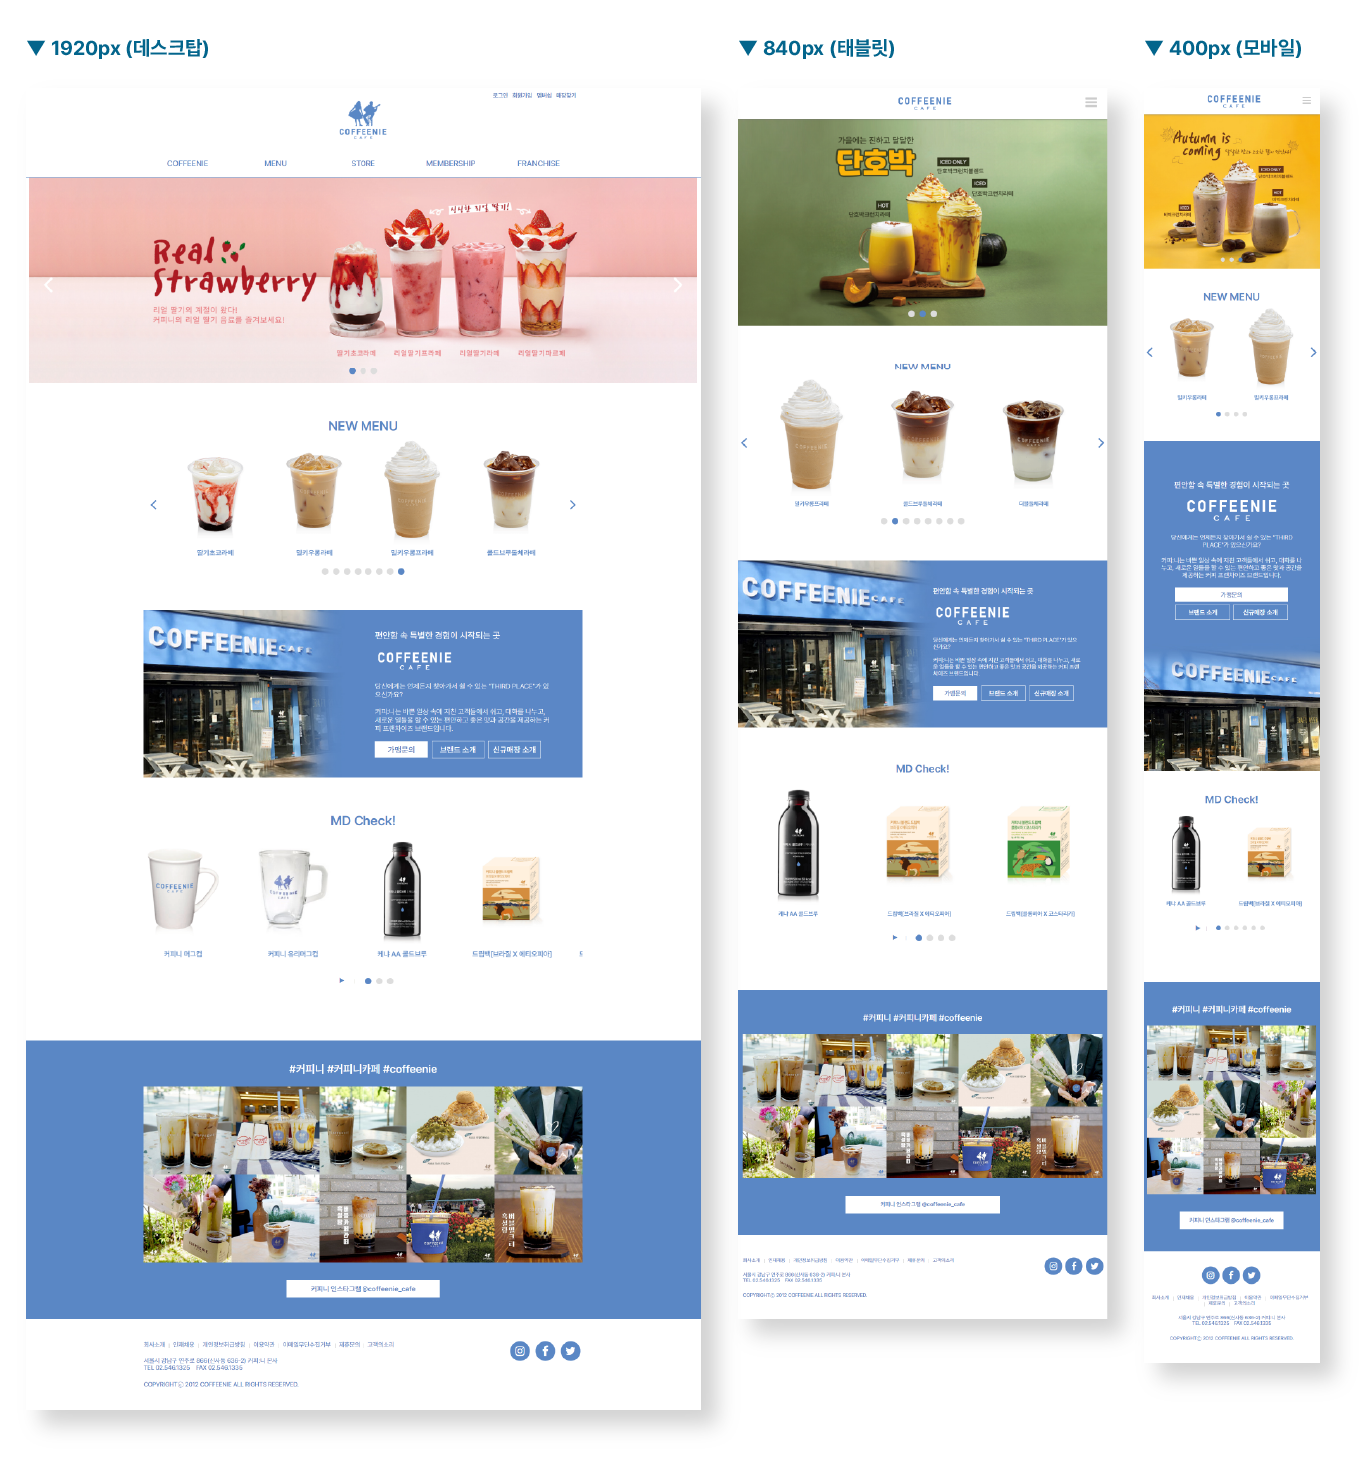
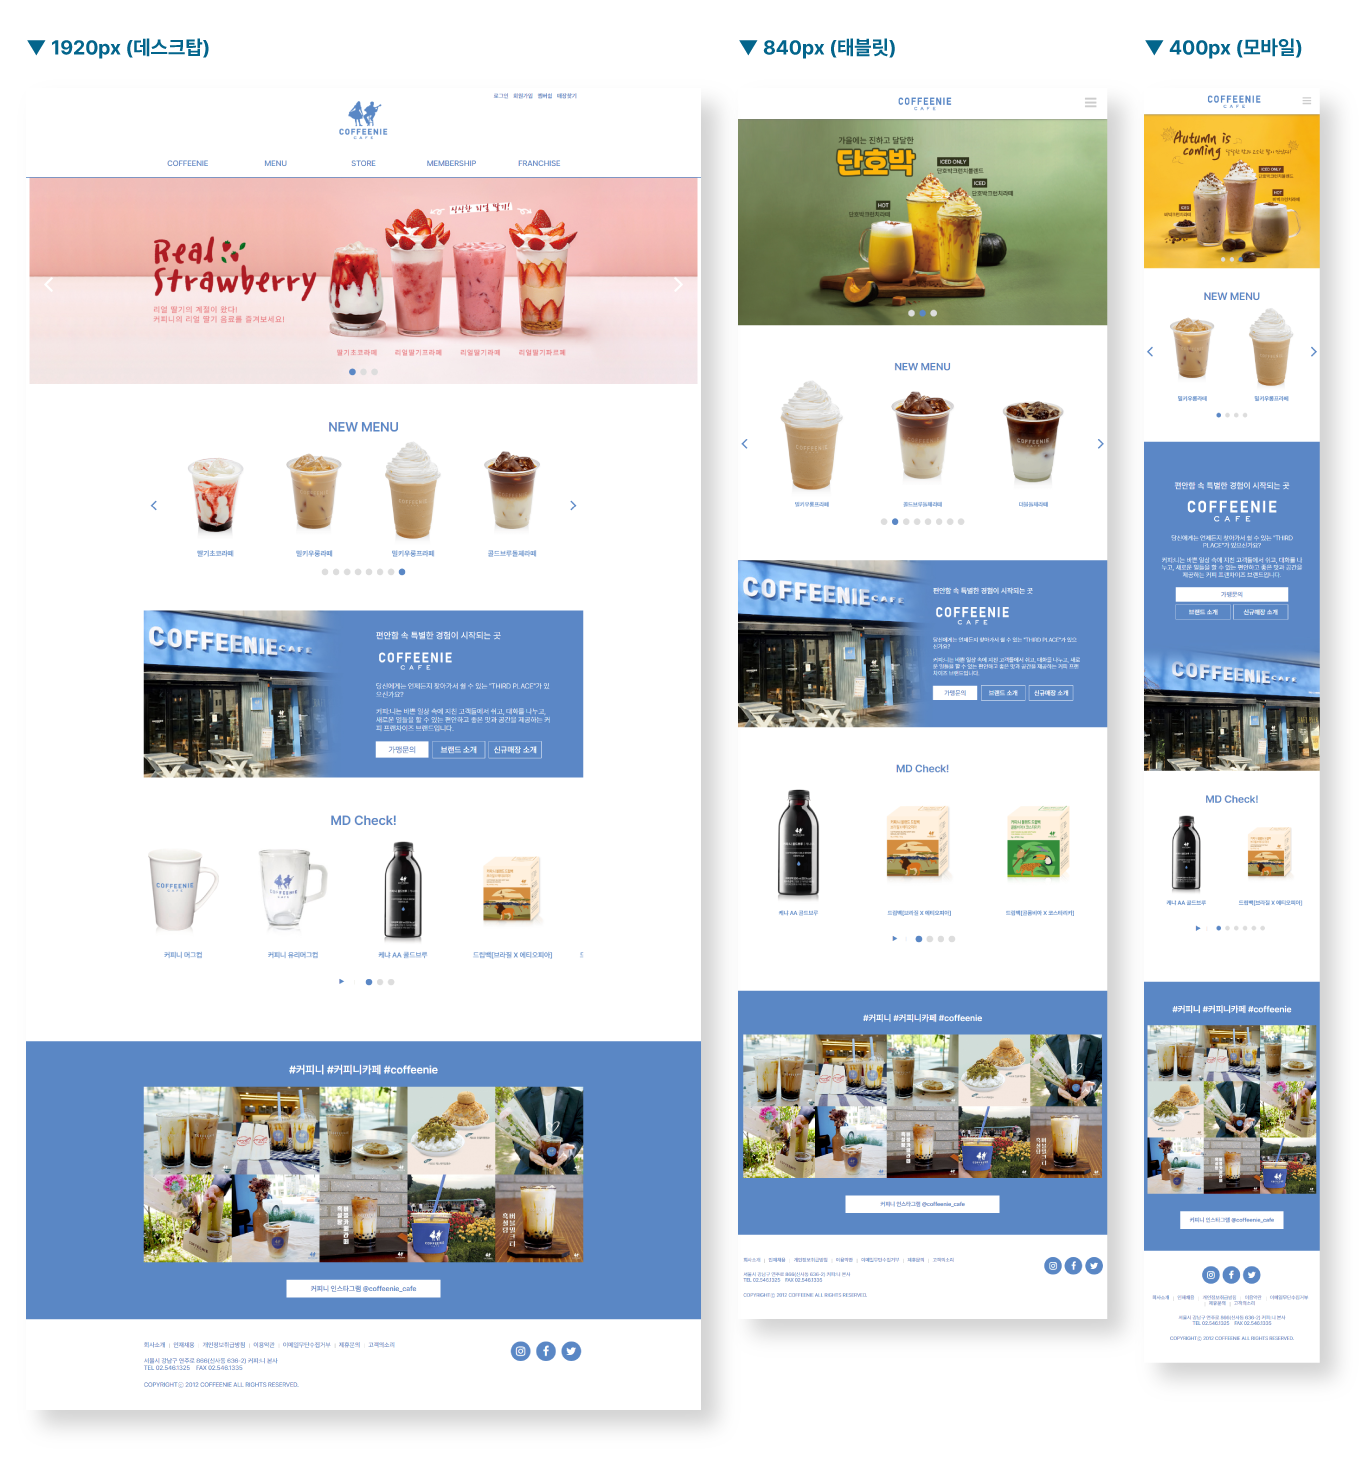
배너 수정

diff --git a/web_portfolio/sub1/index.html b/web_portfolio/sub1/index.html
@@ -74,6 +74,9 @@
 
                 <dt>디자인 시안</dt>
                 <dd class="template">
+                    <a href="img/coffeenie_sub_design.png">
+                        <img src="img/coffeenie_sub_design.png" alt="커피니 배너 디자인 시안">
+                    </a>
                     <a href="img/coffeenie_sub.png" target="_blank">
                         <img src="img/coffeenie_sub.png" alt="커피니 웹디자인 시안">
                     </a>
